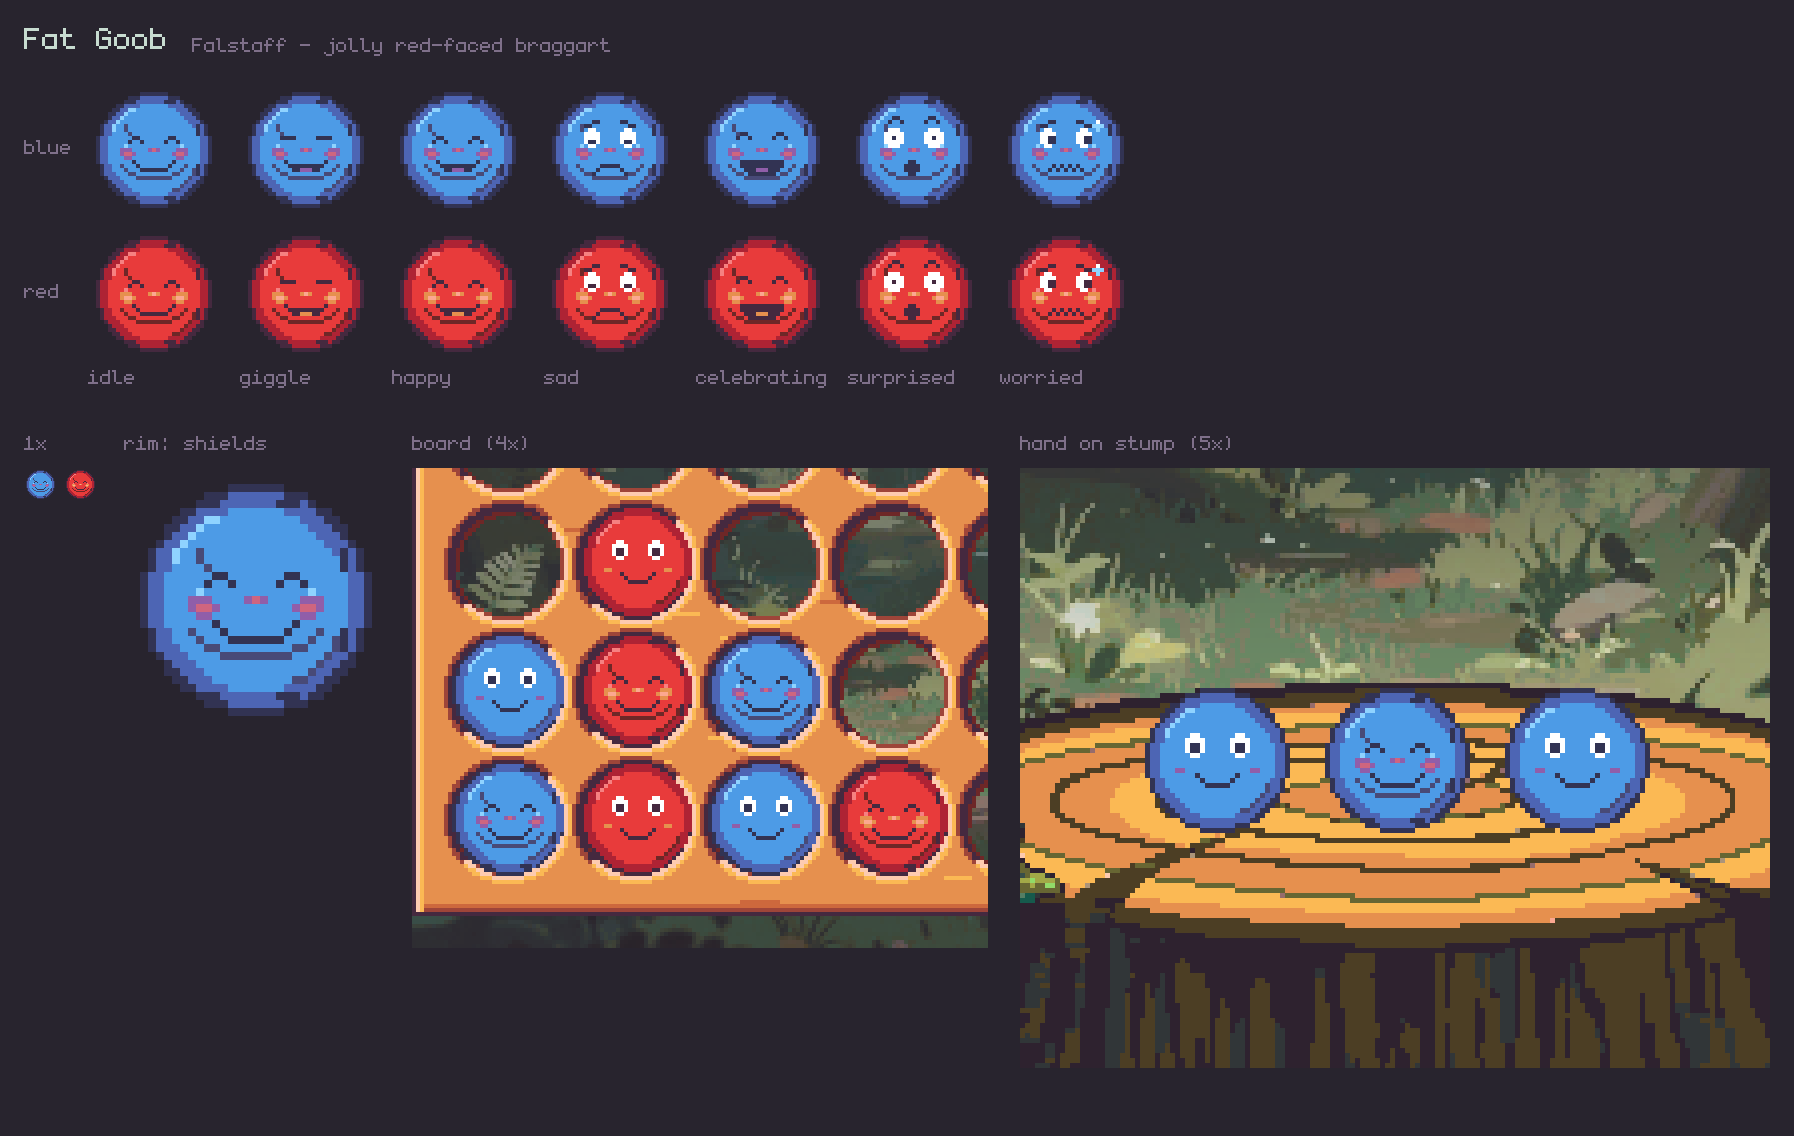
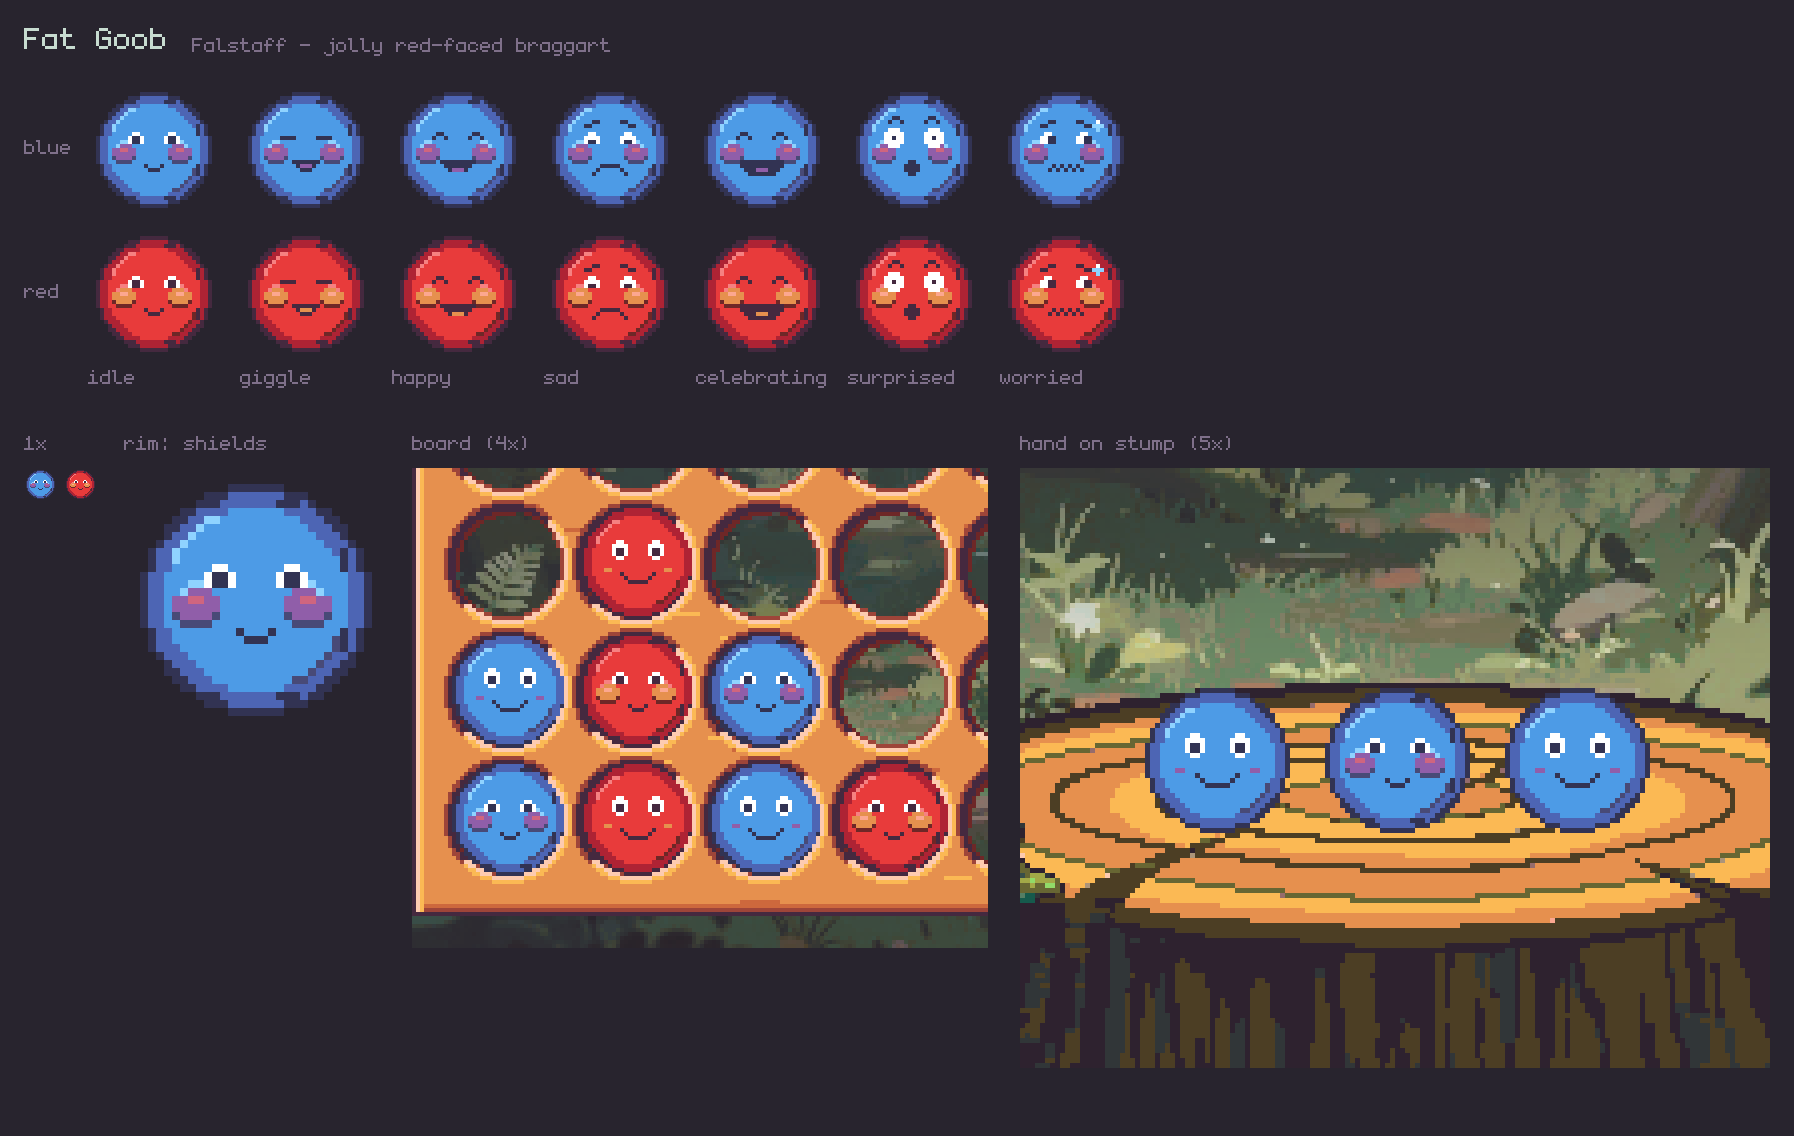
Art D1: Fat v2 - open eyes, big chubby blush cheeks, tiny mouth, no chin/scar

diff --git a/art/goobs/make_type_sheets.py b/art/goobs/make_type_sheets.py
@@ -49,6 +49,9 @@ EYE = {
     "halflid": ["KKKK", "WKKW", ".WW."],                          # at y13
     "squint":  ["KKKK", "_KK_"],                                  # at y13
     "puffed":  [".KK.", "K..K"],                                  # ^ pushed up by cheeks, at y13
+    "small":   [".WW.", "WKKW", "WKKW"],                          # Fat: cheeks squeeze the eyes, y12
+    "smalldown": [".WW.", "WWWW", "WKKW"],
+    "smallside": [".WW.", "WWKK", "WWKK"],                        # not mirrored
     "sparkle": [".WW.", "WWKW", "WKKW", "WKKW", ".WW."],          # not mirrored (light top-left)
     "star":    ["..Y..", "YYYYY", ".YYY.", ".Y.Y."],              # 5 wide, x-1, y12
     "kind":    [".WW.", "WKKW", "KKKK"],                          # at y12
@@ -56,7 +59,8 @@ EYE = {
 # (shape, y, mirror_right, x_shift)
 EYE_POS = {"open": (11, 1, 0), "blink": (13, 1, 0), "arc": (12, 1, 0), "u": (13, 1, 0),
            "wide": (11, 1, -1), "down": (11, 1, 0), "side": (11, 0, 0), "halflid": (13, 1, 0),
-           "squint": (13, 1, 0), "puffed": (13, 1, 0), "sparkle": (11, 0, 0), "star": (12, 1, -1), "kind": (12, 1, 0)}
+           "squint": (13, 1, 0), "puffed": (13, 1, 0),
+           "small": (12, 1, 0), "smalldown": (12, 1, 0), "smallside": (12, 0, 0), "sparkle": (11, 0, 0), "star": (12, 1, -1), "kind": (12, 1, 0)}
 
 BROW = {  # left brow; right is mirrored
     "sad":    ["..KK", "KK.."],       # inner end up, at y9
@@ -83,6 +87,7 @@ MOUTH = {  # (shape, x, y)
     "fatroar":   (["KKKKKKKKKKK", "KKKKKKKKKKK", ".KKKPPPKKK.", "..KKKKKKK.."], 11, 19),
     "grimace":   (["KKKKKKK", "KWKWKWK", "KKKKKKK"], 13, 19),
     "warm":      (["K.....K", ".KKKKK."], 13, 20),
+    "tiny":      (["K...K", ".KKK."], 14, 20),                     # Fat: squished between the cheeks
     "warmlaugh": (["KKKKK", ".KPK."], 14, 20),
 }
 
@@ -92,6 +97,7 @@ EXTRA = {  # (shape, x, y, mirrored copy x or None)
     "fatblush":  (["PPP.", "PQQP", ".PP."], 8, 16, 21),
     "fatnose":   (["PQP"], 15, 16, None),
     "fatcheek":  (["H"], 9, 15, 23),
+    "cheeks":    (["..HH..", ".HPPP.", "PPQQPP", "PPPPPP", "SPPPPS", ".SSSS."], 6, 14, 20),  # chubby drunk-blush cheeks
     "jowl":      (["S...............S", ".S.............S.", "..SS.........SS..", "....SSSSSSSSS...."], 8, 20, None),
     "scar":      (["S.", "S.", ".S"], 9, 10, None),
     "sweat":     ([".W.", "TTT", ".T."], 23, 9, None),
@@ -105,7 +111,7 @@ EXTRA = {  # (shape, x, y, mirrored copy x or None)
 
 # ---------------------------------------------------------------- face design
 # Each expression: eyes, brows (or None), mouth, extras.
-FAT = ["jowl", "fatblush", "fatnose", "fatcheek", "scar"]  # chubby, drunk blush, old scar
+FAT = ["cheeks"]  # chubby drunk-blush cheeks (Sean: no double chin, less busy; scar read as a brow)
 TYPES = {
     "vanilla": {
         "title": "Vanilla Goob", "tag": "ordinary, content - the plain baseline", "rim": None,
@@ -134,13 +140,13 @@ TYPES = {
     "fat": {
         "title": "Fat Goob", "tag": "Falstaff - jolly red-faced braggart", "rim": "shields",
         "faces": {
-            "idle":        ("puffed", None, "fatsmile", FAT),
-            "giggle":      ("blink", None, "fatgrin", FAT),
-            "happy":       ("puffed", None, "fatgrin", FAT),
-            "sad":         ("down", "sad", "frown", FAT),
+            "idle":        ("small", None, "tiny", FAT),
+            "giggle":      ("blink", None, "laugh", FAT),
+            "happy":       ("arc", None, "opensmile", FAT),
+            "sad":         ("smalldown", "sad", "frown", FAT),
             "celebrating": ("arc", None, "fatroar", FAT),
             "surprised":   ("wide", "raised", "o", FAT),
-            "worried":     ("side", "sad", "wobbly", FAT + ["sweat"]),
+            "worried":     ("smallside", "sad", "wobbly", FAT + ["sweat"]),
         },
     },
 }

diff --git a/CLAUDE.md b/CLAUDE.md
@@ -311,7 +311,7 @@ Assets in `assets/strange_man/` (build: `python art/strange_man/make_strange_man
 
 ### Art pass D1 — Goob type sheets
 
-- [x] Start by **interviewing Sean per type** (personality, mood, defining feature; Lore seed line as prompt); notes to the vault for his OK (grill 2026-11-21 → vault `Design/Goob type sheets.md`: Convincing smug persuader / eyes rim, Fat = Falstaff with a chubby drunk-blush face / shields, Popular sparkle court favourite / stars, Plentiful motherly provider / wheat; expression table approved 2026-11-21)
+- [x] Start by **interviewing Sean per type** (personality, mood, defining feature; Lore seed line as prompt); notes to the vault for his OK (grill 2026-11-21 → vault `Design/Goob type sheets.md`: Convincing smug persuader / eyes rim, Fat = Falstaff with big chubby drunk-blush cheeks (no double chin) / shields, Popular sparkle court favourite / stars, Plentiful motherly provider / wheat; expression table approved 2026-11-21)
 - [ ] Sheets (face, rim pattern, 7 expression keyframes, blue + red, board + stump mocks; `art/goobs/make_type_sheets.py` → `art/goobs/sheets/`), one at a time: **Vanilla** ✅ (current face, plain rim, the plain expression baseline; approved 2026-11-21) → Convincing ✅ → Fat → Popular → Plentiful; faces hand-pixelled on the Vanilla body, no PixelLab; Sean approves each
 
 ### Art pass D2 — Goob type production
